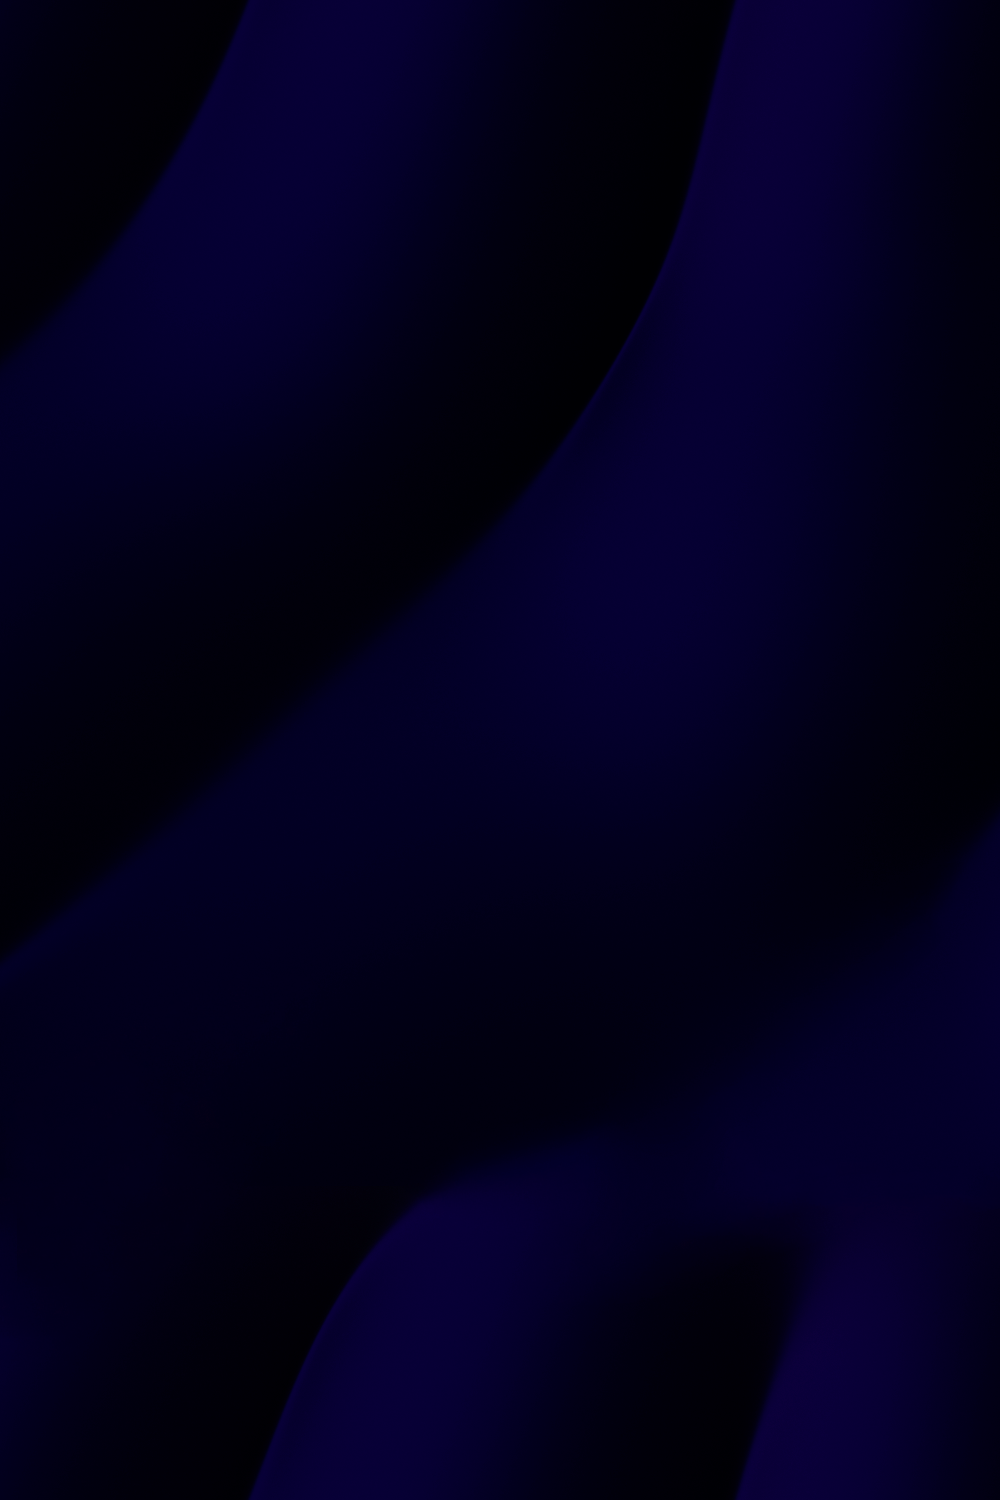
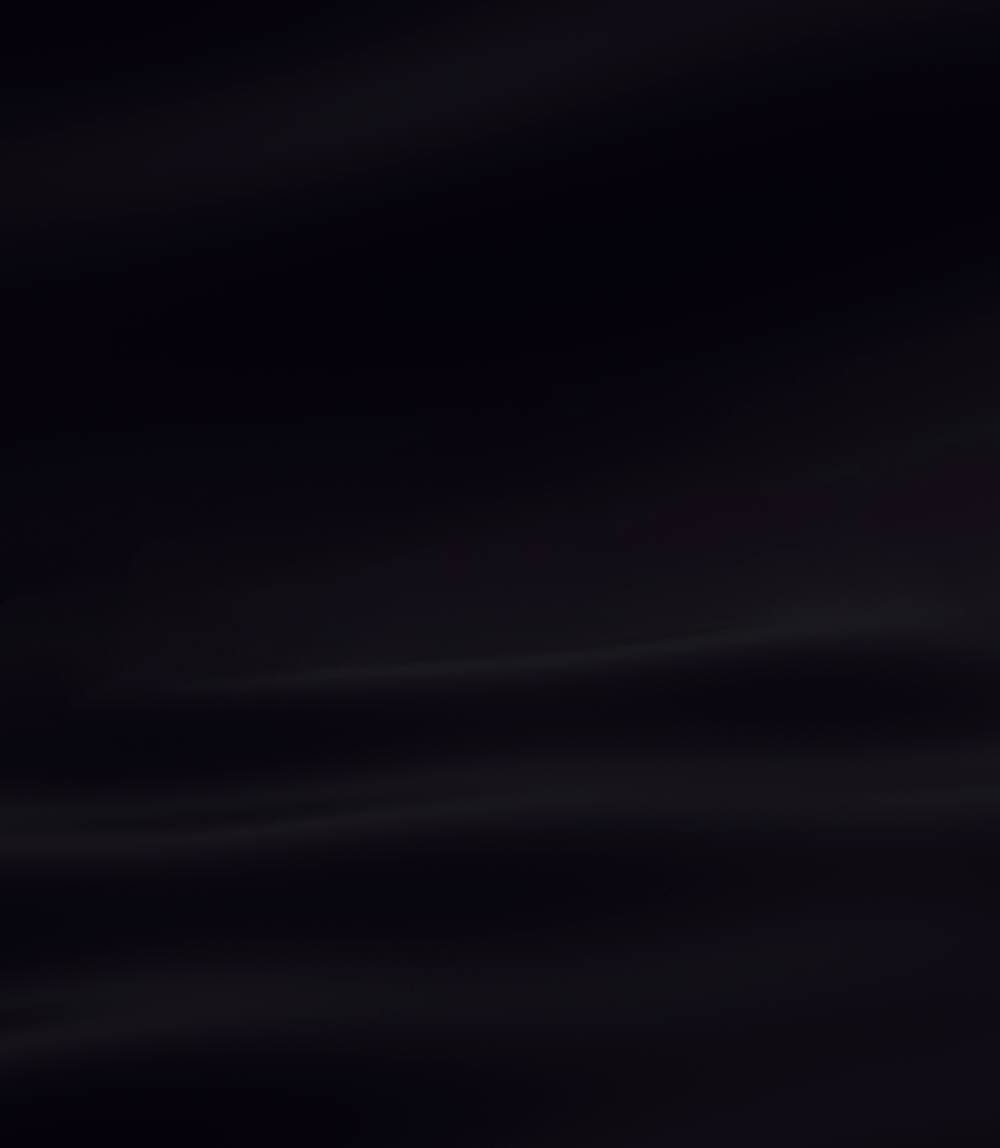
links in new tabs, changed bg image, small changes

diff --git a/styles/home.scss b/styles/home.scss
@@ -1,16 +1,24 @@
 $color-light: #fafafa;
-$color-light-muted: #858585;
+$color-light-muted: #7e7e7e;
 $color-dark: #111111;
-$adjustable-padding: min(2rem, 5vmin);
-$breakpoint: 35rem;
+$adjustable-padding: min(2rem, 6vmin);
+$breakpoint: 40rem;
+
+.curtain {
+  position: fixed;
+  width: 100%;
+  height: 100%;
+  background: black;
+  z-index: 100;
+}
 
 .hero {
   position: relative;
   width: 100%;
-  height: 95vh;
+  height: 100vh;
   overflow: hidden;
-  box-shadow: 0 50px 50px #000;
-  border-radius: 50px;
+  box-shadow: 0 3.125rem 3.125rem #000;
+  border-radius: 0 0 2rem 2rem;
 
   &__header {
     position: absolute;
@@ -21,7 +29,7 @@ $breakpoint: 35rem;
     flex-wrap: wrap;
     gap: 2rem;
     font-weight: 100;
-    font-size: clamp(1rem, 2vmin, 2rem);
+    font-size: 1rem;
     text-transform: uppercase;
     text-align: right;
     z-index: 2;
@@ -54,11 +62,11 @@ $breakpoint: 35rem;
 .profile {
   display: grid;
   grid-auto-flow: column;
-  grid-auto-columns: min(6.25rem, 25vw) 1fr;
+  grid-auto-columns: min(6rem, 25vw) 1fr;
   gap: 1.5rem;
   place-items: center;
   width: min(100%, 31.25rem);
-  height: 18.75rem;
+  height: 18rem;
   text-align: left;
 
   &__info {
@@ -87,7 +95,7 @@ $breakpoint: 35rem;
   &__headline {
     margin: 0;
     color: $color-light;
-    font-size: clamp(1rem, 10vmin, 2.5rem);
+    font-size: clamp(1rem, 9vmin, 2.5rem);
     text-transform: uppercase;
     font-weight: 500;
     line-height: 100%;
@@ -99,6 +107,72 @@ $breakpoint: 35rem;
     overflow: hidden;
     width: 100%;
     height: 100%;
+  }
+}
+
+.projects {
+  display: grid;
+  padding: $adjustable-padding;
+  justify-items: center;
+}
+
+.project {
+  width: 100%;
+  max-width: calc($breakpoint + 40vw);
+  display: flex;
+  flex-direction: column;
+  padding: max(5rem, 7vw) 0;
+  gap: 10vw;
+  font-family: "Roboto Mono", monospace;
+
+  &__details {
+    position: relative;
+    width: 100%;
+    display: flex;
+    flex-direction: column;
+    justify-content: flex-start;
+    gap: 2rem;
+    color: $color-light;
+  }
+
+  &__showcase {
+    position: relative;
+    width: 100%;
+  }
+
+  &__title {
+    font-weight: 400;
+    font-size: 1.8rem;
+    margin: 0;
+    text-transform: uppercase;
+    line-height: 100%;
+  }
+
+  &__description {
+    font-weight: 100;
+    line-height: 100%;
+    font-size: clamp(1rem, 2vw, 1.2rem);
+  }
+
+  &__actions {
+    display: flex;
+    gap: 1rem;
+  }
+
+  &__brief {
+    position: absolute;
+    top: -1.5rem;
+    opacity: 0.4;
+    font-weight: 100;
+    font-size: 0.7rem;
+    text-transform: uppercase;
+    text-decoration: underline;
+  }
+
+  @media screen and (min-width: $breakpoint) {
+    flex-direction: row-reverse;
+    justify-content: center;
+    align-items: center;
   }
 }
 
@@ -114,83 +188,19 @@ $breakpoint: 35rem;
   }
 }
 
-.fade {
-  position: absolute;
-  background: linear-gradient(#000000, #00000000);
-  width: 100%;
-  height: 5rem;
-  z-index: 0;
-}
-
-.projects {
-  display: grid;
-  padding: $adjustable-padding;
-  justify-items: center;
-}
-
-.project {
-  width: 100%;
-  max-width: calc($breakpoint + 40vw);
-  display: flex;
-  flex-direction: column;
-  overflow: hidden;
-  padding: 5rem 0;
-  gap: 10vw;
-
-  &__details {
-    width: 100%;
-    display: flex;
-    flex-direction: column;
-    justify-content: flex-start;
-    gap: 2rem;
-    color: $color-light;
-    font-family: "Roboto Mono", monospace;
-  }
-
-  &__showcase {
-    position: relative;
-    width: 100%;
-  }
-
-  &__title {
-    font-weight: 400;
-    font-size: 2rem;
-    margin: 0;
-    text-transform: uppercase;
-    line-height: 100%;
-  }
-
-  &__description {
-    font-weight: 300;
-    line-height: 100%;
-    font-size: clamp(1rem, 2vw, 1.2rem);
-  }
-
-  &__actions {
-    display: flex;
-    gap: 1rem;
-  }
-
-  @media screen and (min-width: $breakpoint) {
-    flex-direction: row-reverse;
-    justify-content: center;
-    align-items: center;
-  }
-}
-
 .button {
   display: flex;
   align-items: center;
   gap: 0.8rem;
   height: 2rem;
   padding: 0.5rem 1rem;
-  border-radius: 50px;
+  border-radius: 3.125rem;
   border: 1px solid $color-light;
 
   color: $color-light;
   font-size: 0.8rem;
   text-transform: uppercase;
-  font-weight: 200;
+  font-weight: 300;
 
   transition: all 0.5s;
 

diff --git a/pages/index.tsx b/pages/index.tsx
@@ -4,17 +4,21 @@ import MainThreeScene from "../three/MainThreeScene";
 
 import Image from "next/image";
 import ScrambledText from "../components/ScrambledText";
-import { getProjects, Project } from "../data/projectsData";
+import { getProjects, ProjectType } from "../data/projectsData";
+
+const MY_GITHUB_URL = "https://github.com/evgeny-rov";
 
 const convertProjectIdToSubtext = (id: number) => {
   return "prj." + id.toString().padStart(2, "0");
 };
 
-const Hero = () => {
+const HeroSection = () => {
   return (
     <section className="hero">
       <header className="hero__header">
-        <a href="">github</a>
+        <a href={MY_GITHUB_URL} target="_blank" rel="noopener noreferrer">
+          github
+        </a>
         <a href="">контакты</a>
       </header>
       <div className="hero__foreground">
@@ -56,7 +60,7 @@ const Hero = () => {
   );
 };
 
-const AnyProject = (project: Project) => {
+const Project = (project: ProjectType) => {
   return (
     <div className="project">
       <div className="project__showcase">
@@ -70,10 +74,18 @@ const AnyProject = (project: Project) => {
         />
       </div>
       <div className="project__details">
+        <span className="project__brief">
+          {convertProjectIdToSubtext(project.id)}
+        </span>
         <h1 className="project__title">{project.title}</h1>
         <span className="project__description">{project.description}</span>
         <div className="project__actions">
-          <a className="button" href={project.source_url}>
+          <a
+            className="button"
+            href={project.source_url}
+            target="_blank"
+            rel="noopener noreferrer"
+          >
             <svg
               className="button_icon"
               xmlns="http://www.w3.org/2000/svg"
@@ -84,7 +96,12 @@ const AnyProject = (project: Project) => {
             source код
           </a>
           {project.demo_url && (
-            <a className="button button--type-inverted" href={project.demo_url}>
+            <a
+              className="button button--type-inverted"
+              href={project.demo_url}
+              target="_blank"
+              rel="noopener noreferrer"
+            >
               демо
             </a>
           )}
@@ -94,13 +111,13 @@ const AnyProject = (project: Project) => {
   );
 };
 
-const Projects = () => {
+const ProjectsSection = () => {
   const projects = getProjects();
 
   return (
     <section className="projects">
       {projects.map((project) => (
-        <AnyProject key={project.id} {...project} />
+        <Project key={project.id} {...project} />
       ))}
     </section>
   );
@@ -114,9 +131,8 @@ const Home: NextPage = () => {
         <meta name="description" content="Generated by create next app" />
         <link rel="icon" href="/favicon.ico" />
       </Head>
-      <Hero />
-      {/* <div className="fade"></div> */}
-      <Projects />
+      <HeroSection />
+      <ProjectsSection />
     </div>
   );
 };

diff --git a/data/projectsData.ts b/data/projectsData.ts
@@ -4,7 +4,7 @@ const cr_showcase_pic = "/static/projects/cr-showcase.png";
 const di_showcase_pic = "/static/projects/di-showcase.png";
 const in_showcase_pic = "/static/projects/in-showcase.png";
 
-export type Project = {
+export type ProjectType = {
   id: number;
   codename: string;
   shortname: string;
@@ -18,7 +18,7 @@ export type Project = {
 };
 
 export type ProjectsDataType = {
-  [codename: string]: Project;
+  [codename: string]: ProjectType;
 };
 
 const projectsData: ProjectsDataType = {

diff --git a/three/MainThreeScene/MainThreeScene.tsx b/three/MainThreeScene/MainThreeScene.tsx
@@ -14,10 +14,10 @@ const MainScene = () => {
       <Canvas dpr={1}>
         {/* <Stats /> */}
         <fog attach="fog" args={["#000000", 10, 35]} />
-        <Controls />
         <pointLight position={[50, -5, 0]} intensity={5} color={LIGHTS_COLOR} />
         <pointLight position={[-50, 5, 0]} intensity={2} color={LIGHTS_COLOR} />
         <Suspense fallback={null}>
+          <Controls />
           <DunesModel position={[0, -5, 0]} />
           <Effects />
         </Suspense>

diff --git a/styles/globals.css b/styles/globals.css
@@ -4,11 +4,13 @@ body {
   margin: 0;
   font-family: -apple-system, BlinkMacSystemFont, Segoe UI, Roboto, Oxygen,
     Ubuntu, Cantarell, Fira Sans, Droid Sans, Helvetica Neue, sans-serif;
+
   background-color: black;
 
   background-image: url("/static/background.png");
-  background-repeat: repeat-y;
   background-size: 100%;
+  background-position: 0 -44%;
+  background-repeat: repeat-y;
 }
 
 :root {

diff --git a/pages/_document.tsx b/pages/_document.tsx
@@ -6,7 +6,7 @@ class MyDocument extends Document {
       <Html>
         <Head>
           <link
-            href="https://fonts.googleapis.com/css2?family=Roboto+Mono:wght@100;400&display=swap"
+            href="https://fonts.googleapis.com/css2?family=Roboto+Mono:wght@100;200;300;400&display=swap"
             rel="stylesheet"
           />
         </Head>
